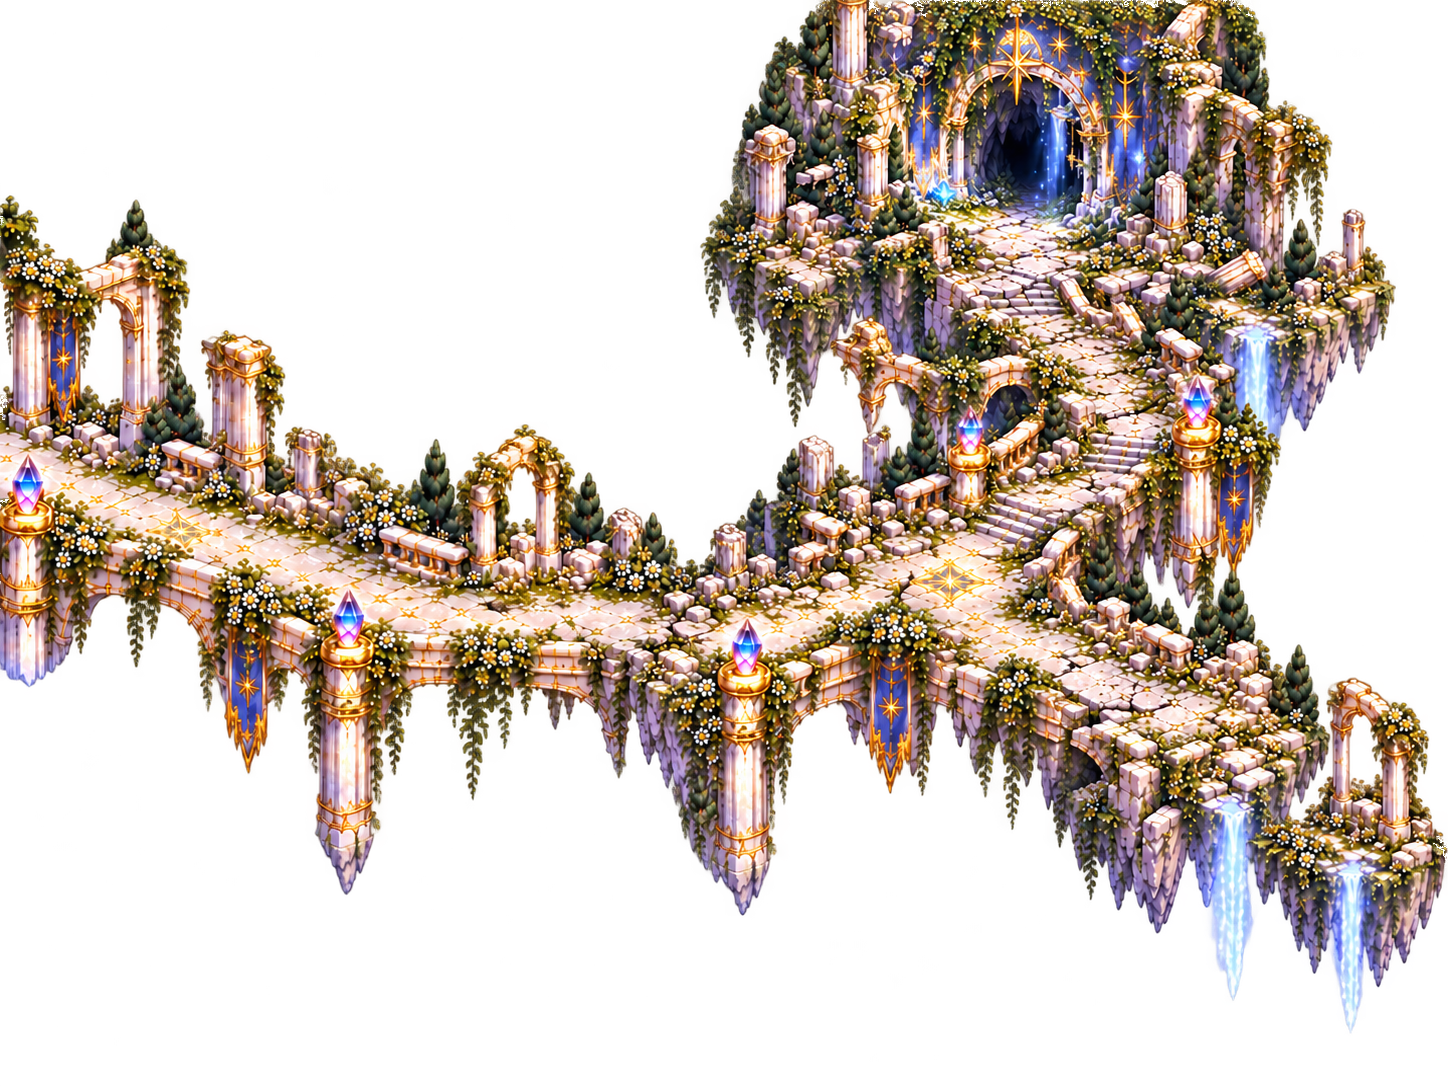
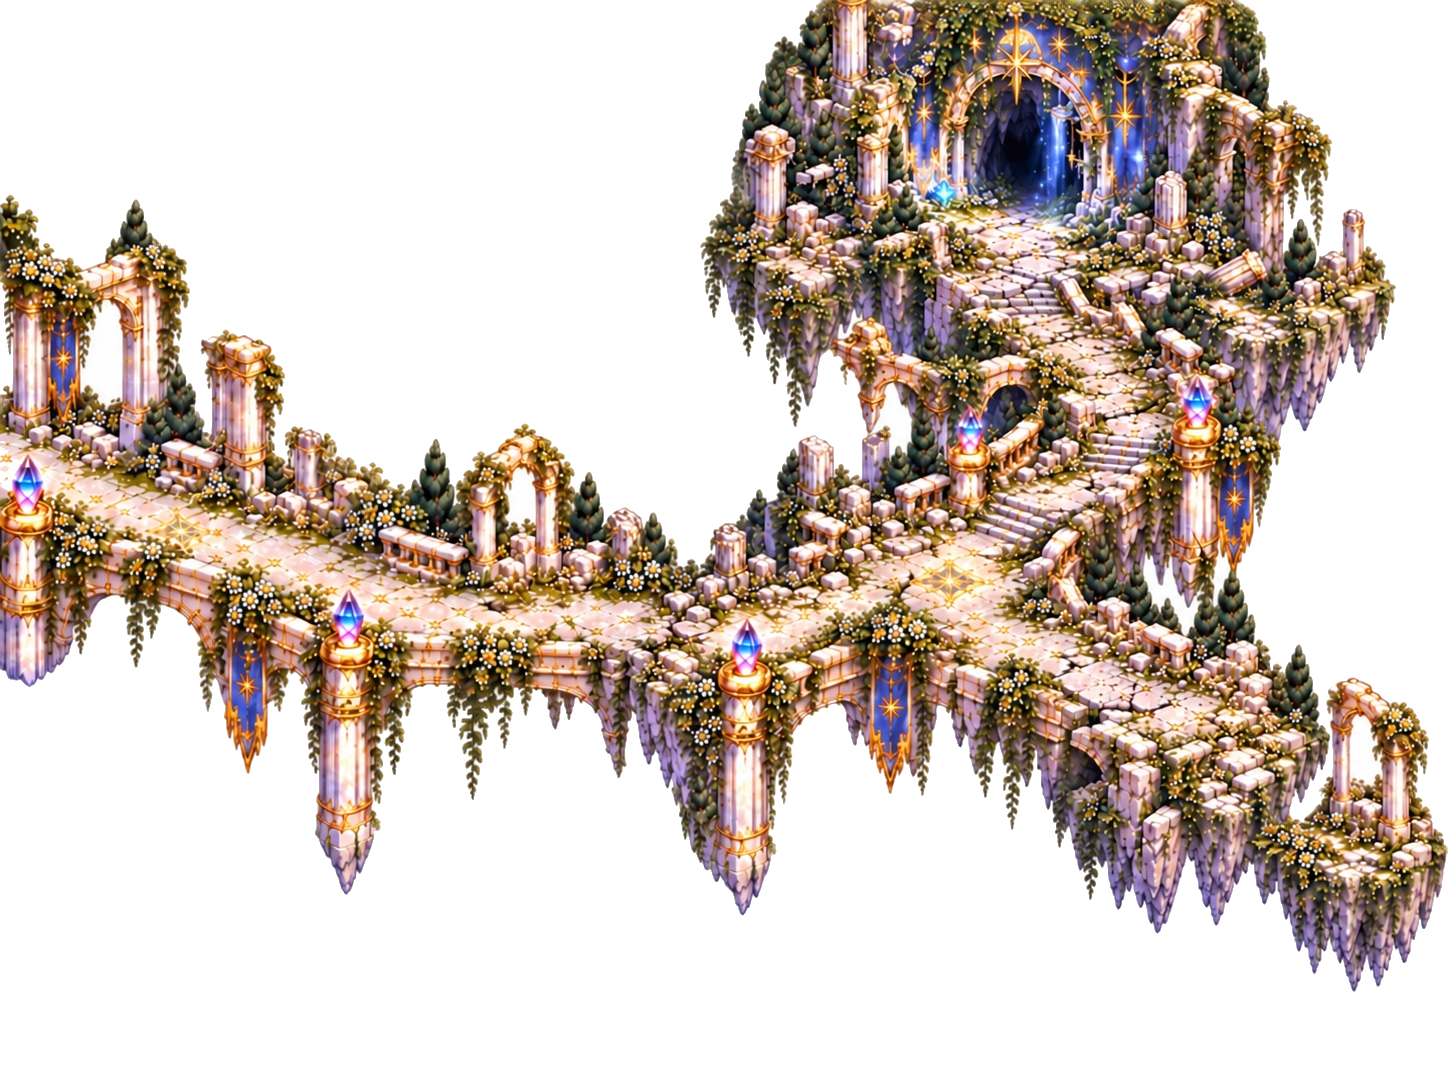
feat(hoshisuna): sync current Starroad and reuse Garden waterfall animation for falls

Changed region(s): [[0.0, 0.0, 1.0, 0.942]]

diff --git a/hoshisuna-main.html b/hoshisuna-main.html
@@ -6,8 +6,8 @@
     <meta name="theme-color" content="#0b1029" />
     <title>TAROT BREAKER — 星砂・main同一ゲームエンジン検証</title>
     <link rel="preload" as="image" href="./assets/maps/star-country-farthest-sky-background.webp" fetchpriority="high" />
-    <link rel="preload" as="image" href="./assets/events/hoshisuna/map/starroad.webp" fetchpriority="high" />
-    <link rel="preload" as="image" href="./assets/events/hoshisuna/map/starroad.webp" fetchpriority="high" />
+    <link rel="preload" as="image" href="./assets/events/hoshisuna/map/starroad.webp?asset=2dc27814" fetchpriority="high" />
+    <link rel="preload" as="image" href="./assets/events/hoshisuna/map/falls.webp?asset=b1cbcf17" />
     <link rel="preload" as="image" href="./assets/maps/star-country-gate-garden-star-sky.webp" />
     <link rel="preload" as="image" href="./assets/maps/star-country-world-clouds.webp?asset=eaea4c9513cf" />
     <link rel="stylesheet" href="./game.css?v=20260919-no-reset-hard-v2" />
@@ -50,8 +50,8 @@
     </style>
     <script src="./runtime-entry.js?v=title-entry-v1"></script>
 <style id="hoshisuna-only-scene">
-/* Only map and clouds survive from Garden; preserve the original canvas and HUD. */
-.scene-background,.scene-waterfall,.scene-fountain-base,.scene-fountain-water,
+/* Use main Garden's existing two-layer waterfall animation with Starroad's waterfall-only overlay. */
+.scene-background,.scene-fountain-base,.scene-fountain-water,
 .scene-fountain-crystal,.scene-fountain-glow,.scene-fountain-sparkle,
 .scene-star-gate,.scene-gate-base,.scene-gate-inner-light,.scene-gate-particle,
 .scene-gate-event,.scene-sun-light {display:none!important}
@@ -102,16 +102,16 @@
       })();
     </script>
     <main id="game-shell" data-gate-state="normal" aria-label="TAROT BREAKER 1000年前の星の国">
-      <img id="map-layer" class="map-layer scene-map-base" src="./assets/events/hoshisuna/map/starroad.webp" alt="" aria-hidden="true" draggable="false" />
+      <img id="map-layer" class="map-layer scene-map-base" src="./assets/events/hoshisuna/map/starroad.webp?asset=2dc27814" alt="" aria-hidden="true" draggable="false" />
       <div class="scene-world-layer scene-back scene-farthest-sky" data-scene-world aria-hidden="true"><img crossorigin="anonymous" src="./assets/maps/star-country-farthest-sky-background.webp" alt="" draggable="false" /></div>
       <div class="scene-world-layer scene-back scene-star-sky" data-scene-world aria-hidden="true"><img crossorigin="anonymous" src="./assets/maps/star-country-gate-garden-star-sky.webp" alt="" draggable="false" /></div>
       <div class="scene-object scene-back scene-sun-light" data-scene-object data-world-x="100" data-world-y="130" data-world-w="340" data-world-h="340" aria-hidden="true"></div>
       <div class="scene-world-layer scene-back scene-cloud scene-cloud-main" data-scene-world aria-hidden="true"><div class="scene-cloud-track scene-cloud-main-track"><img class="scene-cloud-copy" crossorigin="anonymous" src="./assets/maps/star-country-world-clouds.webp?asset=eaea4c9513cf" alt="" draggable="false" /><img class="scene-cloud-copy" crossorigin="anonymous" src="./assets/maps/star-country-world-clouds.webp?asset=eaea4c9513cf" alt="" draggable="false" /><img class="scene-cloud-copy" crossorigin="anonymous" src="./assets/maps/star-country-world-clouds.webp?asset=eaea4c9513cf" alt="" draggable="false" /></div></div>
       <div class="scene-world-layer scene-back scene-background" data-scene-world aria-hidden="true"><canvas width="1448" height="1086"></canvas></div>
-      <div class="scene-world-layer scene-back scene-waterfall scene-waterfall-base" data-scene-world aria-hidden="true"><img crossorigin="anonymous" hidden src="./assets/maps/star-country-gate-garden-waterfall.webp" alt="" draggable="false" /><canvas width="1448" height="1086"></canvas></div>
-      <div class="scene-world-layer scene-back scene-waterfall scene-waterfall-flow" data-scene-world aria-hidden="true"><img crossorigin="anonymous" hidden src="./assets/maps/star-country-gate-garden-waterfall.webp" alt="" draggable="false" /><canvas width="1448" height="1086"></canvas></div>
-      <div class="scene-world-layer scene-back scene-ground" data-scene-world aria-hidden="true"><img crossorigin="anonymous" src="./assets/events/hoshisuna/map/starroad.webp" alt="" draggable="false" /></div>
-      <div class="scene-world-layer scene-front scene-foreground" data-scene-world aria-hidden="true"><img crossorigin="anonymous" hidden src="./assets/events/hoshisuna/map/starroad.webp" alt="" draggable="false" /><canvas width="1448" height="1086"></canvas></div>
+      <div class="scene-world-layer scene-back scene-waterfall scene-waterfall-base" data-scene-world aria-hidden="true"><img crossorigin="anonymous" hidden src="./assets/events/hoshisuna/map/falls.webp?asset=b1cbcf17" alt="" draggable="false" /><canvas width="1448" height="1086"></canvas></div>
+      <div class="scene-world-layer scene-back scene-waterfall scene-waterfall-flow" data-scene-world aria-hidden="true"><img crossorigin="anonymous" hidden src="./assets/events/hoshisuna/map/falls.webp?asset=b1cbcf17" alt="" draggable="false" /><canvas width="1448" height="1086"></canvas></div>
+      <div class="scene-world-layer scene-back scene-ground" data-scene-world aria-hidden="true"><img crossorigin="anonymous" src="./assets/events/hoshisuna/map/starroad.webp?asset=2dc27814" alt="" draggable="false" /></div>
+      <div class="scene-world-layer scene-front scene-foreground" data-scene-world aria-hidden="true"><img crossorigin="anonymous" hidden src="./assets/events/hoshisuna/map/starroad.webp?asset=2dc27814" alt="" draggable="false" /><canvas width="1448" height="1086"></canvas></div>
       <div class="scene-object scene-back scene-gate-base" data-scene-object data-mask-only="true" data-world-x="521.5469613259668" data-world-y="-70" data-world-w="560" data-world-h="420" aria-hidden="true" hidden><img crossorigin="anonymous" src="./assets/maps/star-country-gate-garden-star-gate-base.webp?v=gate-assembly-v1" alt="" draggable="false" /></div>
       <div class="scene-object scene-back scene-fountain-base" data-scene-object data-world-x="625" data-world-y="388" data-world-w="350" data-world-h="245" aria-hidden="true"><img crossorigin="anonymous" src="./assets/maps/star-country-gate-garden-fountain-base.webp" alt="" draggable="false" /></div>
       <div class="scene-object scene-back scene-fountain-water" data-scene-object data-world-x="650" data-world-y="409" data-world-w="300" data-world-h="176" aria-hidden="true"><img crossorigin="anonymous" src="./assets/maps/star-country-gate-garden-fountain-water.webp" alt="" draggable="false" /></div>
